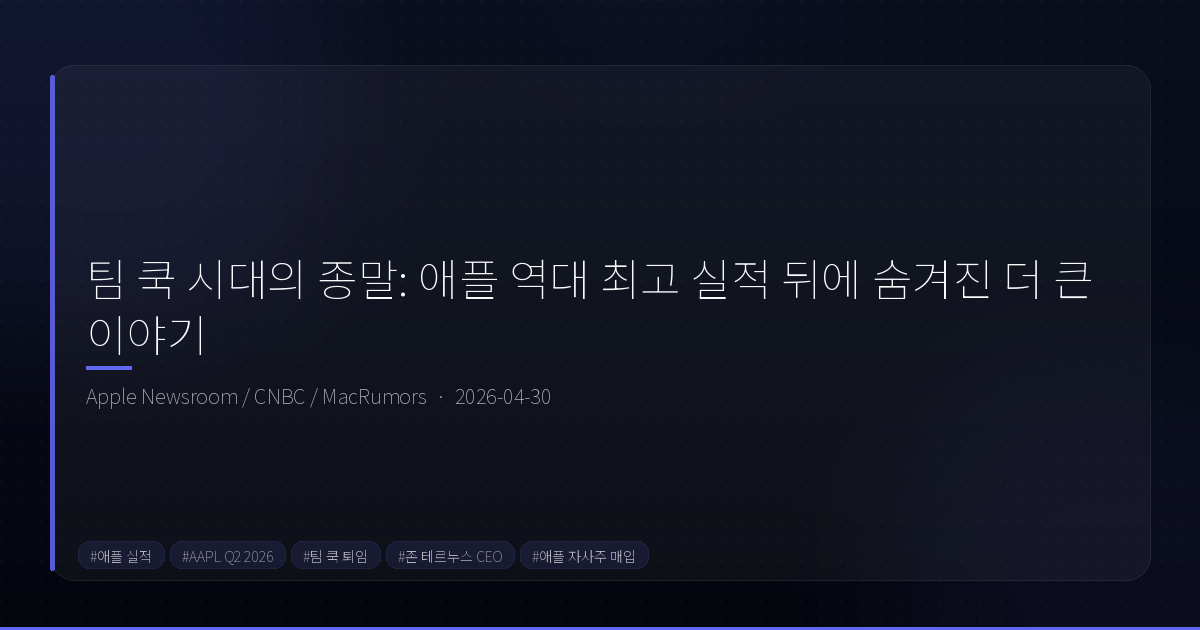
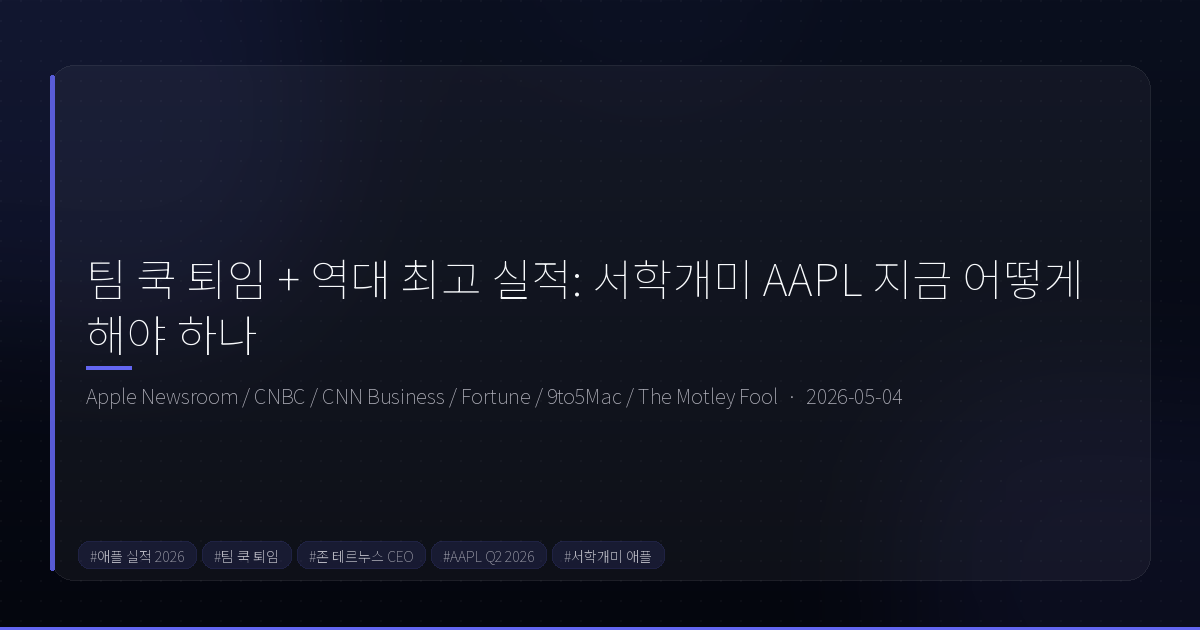
Post: 팀 쿡 퇴임 + 역대 최고 실적: 서학개미 AAPL 지금 어떻게 해야 하나
https://claude.ai/code/session_01Enrk2ENNt8h56ogqHEguXa

diff --git a/_posts/2026-05-04-tim-cook-apple-q2-fomc-seohaggaemi.md b/_posts/2026-05-04-tim-cook-apple-q2-fomc-seohaggaemi.md
@@ -1,0 +1,113 @@
+---
+title: "팀 쿡 퇴임 + 역대 최고 실적: 서학개미 AAPL 지금 어떻게 해야 하나"
+date: "2026-05-04"
+description: "애플이 매출 1,112억 달러 사상 최고 실적을 발표하며 팀 쿡 CEO 퇴임을 선언했다. FOMC 34년 만의 분열까지 겹친 격변의 한 주, 서학개미가 알아야 할 5가지 핵심 체크포인트."
+tags: ["애플 실적", "AAPL", "팀 쿡 퇴임", "존 테르누스", "서학개미", "FOMC", "케빈 워쉬", "미국 주식"]
+image: "https://raw.githubusercontent.com/jeonghun-project/economy-insights/main/assets/images/header.png"
+---
+
+## 3줄 요약
+
+*   **핵심 1**: 애플이 Q2 FY2026 매출 1,112억 달러(+17%), EPS 2.01달러(+22%)로 역대 최고 실적을 기록했습니다.
+*   **핵심 2**: 팀 쿡 CEO가 2026년 9월 1일 퇴임하고, 하드웨어 엔지니어 존 테르누스가 CEO를 승계합니다.
+*   **핵심 3**: 동시에 FOMC는 34년 만에 4명이 반대표를 던지며 분열했고, 5월 15일 워쉬 체제로 전환됩니다.
+
+---
+
+![Apple Q2 2026 핵심 실적 요약](https://raw.githubusercontent.com/jeonghun-project/economy-insights/main/assets/images/stats_apple_q2_2026.png)
+
+## 역사가 두 번 겹친 한 주
+
+2026년 4월 마지막 주, 두 가지 역사적 사건이 동시에 일어났습니다.
+
+첫 번째는 애플의 Q2 FY2026 실적 발표입니다. 매출 1,112억 달러로 3월 분기 역대 최고를 경신했고, EPS 2.01달러는 월스트리트 컨센서스(1.95달러)를 4.1% 상회했습니다. 단순한 실적 서프라이즈가 아닙니다. 팀 쿡이 2026년 9월 1일부로 CEO직에서 물러나고, 하드웨어 엔지니어링 총괄 존 테르누스(50)가 그 자리를 이어받는다는 발표가 동반됐습니다. 2011년 스티브 잡스에서 팀 쿡으로의 교체 이후 15년 만의 CEO 교체입니다.
+
+두 번째는 FOMC입니다. 연준은 4월 29일 기준금리를 3.5~3.75%로 동결했는데, 이 과정에서 34년 만에 4명의 위원이 반대표를 던지는 초유의 분열이 발생했습니다. 5월 15일에는 제롬 파월이 의장직에서 퇴임하고 케빈 워쉬가 그 자리를 맡을 예정입니다. 워쉬의 정책 기조는 파월과 결이 다릅니다.
+
+이 두 가지 사건은 겉으로 보면 별개처럼 보이지만, 서학개미 입장에서는 하나의 투자 판단 문제로 수렴됩니다.
+
+---
+
+## 숫자로 보는 실적 — 어디서 돈을 벌었나
+
+실적 세부 내용을 살펴보겠습니다.
+
+**아이폰**이 여전히 견인차입니다. 3월 분기 아이폰 매출은 약 570억 달러($56.99B)로 전년 대비 22% 성장하며 3월 분기 사상 최고치를 기록했습니다. iPhone 17 시리즈의 Apple Intelligence(AI 기능) 탑재가 교체 수요를 자극한 것으로 분석됩니다.
+
+**서비스** 부문은 약 310억 달러($30.98B)로 역대 최고 기록을 다시 썼습니다(+16% YoY). App Store, Apple TV+, iCloud, Apple Pay 등 서비스 사업의 구조적 성장이 지속되고 있습니다. 아이폰 판매에 종속됐던 실적 구조가 서비스 기반으로 다각화되고 있다는 점에서 밸류에이션 관점에서 긍정적입니다.
+
+주목해야 할 수치는 **그레이터 차이나 매출 성장률 +28%**입니다. 2023~2024년 화웨이 Mate 60 시리즈 출시로 중국 시장을 상당 부분 빼앗겼던 애플이 최대 반등을 기록한 것입니다. Apple Intelligence의 중국어 지원 확대와 아이폰 17 시리즈 AI 기능이 프리미엄 수요를 되살린 것으로 보입니다.
+
+**R&D 비용은 114억 달러(+33% YoY)**로, 이 숫자는 단순 비용이 아니라 전략 시그널로 읽어야 합니다. 테르누스가 주도하는 새 경영진이 AI 하드웨어 투자를 대폭 늘리고 있다는 의미입니다.
+
+이 외에도 **1,000억 달러 자사주 매입 추가 승인**과 **배당 4% 인상(주당 0.27달러)**이 발표됐습니다. 애플의 2012년 이후 누적 자사주 매입 규모는 7,000억 달러 이상으로 S&P 500 역사상 최대입니다. 자사주 매입은 발행 주식 수를 줄여 EPS를 자동으로 상승시키는 효과가 있습니다.
+
+---
+
+![팀 쿡 시대 vs 존 테르누스 시대 비교](https://raw.githubusercontent.com/jeonghun-project/economy-insights/main/assets/images/comparison_cook_vs_ternus.png)
+
+## 존 테르누스 — 하드웨어 엔지니어가 애플을 이끈다
+
+팀 쿡(65)은 공급망과 운영 최적화의 마스터였습니다. 2001년 IBM 출신으로 애플에 합류해, 스티브 잡스가 제품을 설계하는 동안 글로벌 공급망을 효율화하는 일을 맡았습니다. 그가 CEO가 된 2011년 이후 애플의 시가총액은 약 3,000억 달러에서 4조 달러 이상으로 성장했습니다. 서비스 사업 구축, 인도 공급망 다변화, 주주 환원 제도화가 쿡 시대의 유산입니다.
+
+존 테르누스(50)는 다릅니다. 2001년 애플에 입사해 iPad, AirPods, 여러 세대의 iPhone, Mac, Apple Watch 하드웨어 설계를 주도했습니다. 가장 중요한 이력은 **Apple Silicon(M1~M4, A 시리즈) 설계 총괄**입니다. 인텔 의존도를 끊고 자체 칩으로 Mac을 완전히 전환하는 프로젝트를 성공시킨 인물이 바로 테르누스입니다. 스티브 잡스 이후 애플 최초의 엔지니어 출신 CEO입니다.
+
+이 전환의 시사점은 명확합니다. **쿡 시대의 핵심이 '효율적 운영'이었다면, 테르누스 시대의 핵심은 '하드웨어 × AI 기술 혁신'**이 될 가능성이 높습니다. R&D 비용이 1년 새 33% 급증한 것이 그 예고편입니다.
+
+단기 불확실성도 존재합니다. CEO 교체는 언제나 전략 방향의 불확실성을 수반합니다. 실제로 2011년 잡스→쿡 전환 당시 AAPL 주가는 수개월간 횡보했다가 이후 장기 상승으로 전환됐습니다. 역사적 선례는 장기 보유자에게 불리하지 않습니다.
+
+---
+
+## FOMC 34년 만의 분열 — 워쉬 시대가 온다
+
+같은 주, 연준에서는 이례적인 사건이 발생했습니다. 4월 29일 FOMC에서 기준금리를 3.5~3.75%로 동결했는데, 이 과정에서 반대표가 **4명**이나 나왔습니다. 이는 1992년 이후 34년 만에 가장 많은 반대입니다.
+
+반대의 방향이 엇갈렸다는 점이 더 중요합니다. 스티브 미란(Stephen Miran)은 **금리 0.25%p 인하**를 요구하며 반대했고, 베스 해맥(Cleveland), 닐 카쉬카리(Minneapolis), 로리 로건(Dallas) 세 명은 **완화 편향 문구 삽입에 반대**하며 반대표를 던졌습니다. 즉, 4명이 반대했지만 그 방향이 완화와 긴축으로 엇갈렸습니다. 연준 내부가 그만큼 방향성을 잃고 있다는 신호입니다.
+
+선물 시장은 연내 금리 인하 확률을 **10%**로 보고 있습니다. 사실상 동결 장기화가 기본 시나리오입니다.
+
+5월 15일 파월이 의장직에서 물러나면 케빈 워쉬가 그 자리를 맡을 예정입니다. 워쉬의 정책 철학은 파월보다 훨씬 강경합니다. 장기 고금리 유지와 연준 대차대조표 축소(QT 가속화)를 선호하며, 시장 친화적 완화보다 인플레이션 통제를 우선시합니다. 월스트리트가 워쉬를 불편해하는 이유입니다.
+
+NXP 반도체가 실적 발표 후 25% 급등하고, 시게이트가 11% 올랐지만 다우존스는 연준 발표 직후 소폭 하락했다가 애플 실적 효과로 낙폭을 일부 회복했습니다. 기업 실적이 거시 불안심리를 일시적으로 상쇄한 구도입니다.
+
+---
+
+![서학개미 체크포인트: AAPL + 워쉬 시대 대응 전략](https://raw.githubusercontent.com/jeonghun-project/economy-insights/main/assets/images/flow_seohaggaemi_checklist.png)
+
+## 서학개미 5가지 체크포인트
+
+**① AAPL 홀더: 단기 호재 확인, 9월 CEO 교체까지 관망 가능**
+
+Q2 실적 서프라이즈와 주당 0.27달러 배당 인상은 단기 주가 지지 근거입니다. 시간외에서 3% 상승으로 반응한 시장 심리도 확인됐습니다. 그러나 9월 1일 공식 CEO 교체 이후 테르누스의 첫 제품·전략 발표가 나오기 전까지는 중기 방향성이 불투명합니다. 장기 보유 입장이라면 지금 당장 행동보다 관망이 유효합니다.
+
+**② 1,000억 달러 자사주 매입 = EPS 방어막**
+
+추가 승인된 1,000억 달러 자사주 매입은 시장 하락 시 주가 하방을 지지하는 완충재입니다. 자사주 소각은 발행 주식 수를 줄여 EPS를 자동으로 높이므로, 단기 실적 변동성이 있더라도 EPS 기반 밸류에이션 지지력이 유지됩니다. 이는 AAPL 보유 포지션을 유지할 근거로 볼 수 있습니다.
+
+**③ 달러/원 환율: 워쉬 고금리 기조 → 달러 강세 → 환차손 주의**
+
+워쉬가 장기 고금리와 QT 가속을 추진할 경우, 달러 강세 압력이 재개될 수 있습니다. 달러 강세는 미국 자산을 보유한 서학개미에게 환차익을 가져다줄 수 있지만, 동시에 한국 수출 기업의 경쟁력 약화와 원화 약세에 따른 수입 물가 상승이라는 이중 부담도 수반합니다. 환 헤지 비중을 점검할 시점입니다.
+
+**④ TQQQ·레버리지 ETF: 변동성 구간 대비**
+
+TQQQ와 같은 3배 레버리지 ETF는 금리 상승 압력이 재개될 경우 낙폭이 배가됩니다. 현재 금리 동결 국면에서는 괜찮지만, 워쉬 체제에서 금리 인상 가능성이 다시 대두될 경우 레버리지 포지션 비중 조정이 필요합니다. 선물 시장이 인상 확률을 6%로 보는 현 시점은 아직 위험 단계가 아니지만, 5월 15일 이후 워쉬의 첫 발언과 FOMC 의사록을 주시해야 합니다.
+
+**⑤ 관세 리스크: 2026 하반기 모니터링 대상**
+
+애플은 중국·인도 공급망에 대한 의존도가 높습니다. 미·중 무역 긴장이 재점화되거나 관세 인상이 현실화될 경우 애플의 마진 구조에 부담이 생깁니다. 테르누스 취임 후 공급망 전략 변화 여부가 중요한 모니터링 포인트입니다.
+
+---
+
+## 정리: 지금 우리가 기억해야 할 것
+
+한 주 동안 두 개의 역사적 전환이 동시에 일어났습니다.
+
+애플 측에서 보면, **실적은 완벽했습니다**. 매출, EPS, 아이폰, 서비스, 중국 회복 모두 예상을 상회했고, 1,000억 달러 자사주 매입과 배당 인상으로 주주 환원도 확인됐습니다. 단기 주가 지지력은 충분합니다. 장기 관점에서는 테르누스 체제(하드웨어 × AI)가 어떤 방향성을 제시하는지 9월 이후를 지켜봐야 합니다.
+
+연준 측에서 보면, **5월 15일이 분수령**입니다. 워쉬 체제 하에서 금리 방향이 다시 상방으로 바뀔 가능성은 낮지만, 완화 기조가 후퇴할 가능성은 있습니다. 달러 강세와 레버리지 포지션 리스크를 함께 점검해야 합니다.
+
+서학개미에게 이번 한 주는 **"좋은 실적, 그러나 구조적 불확실성의 시작"**으로 요약할 수 있습니다. 단기 매도 이유는 없지만, 무조건적인 추격 매수도 권하기 어렵습니다.
+
+---
+
+> **투자 유의사항**: 이 글은 정보 제공 목적으로 작성된 분석 콘텐츠이며, 특정 종목의 매매를 권유하거나 투자 수익을 보장하지 않습니다. 투자 결정은 반드시 개인의 투자 목적, 리스크 허용 범위, 재정 상황을 고려하여 스스로 판단하시기 바랍니다. 과거 실적은 미래 수익을 보장하지 않습니다.